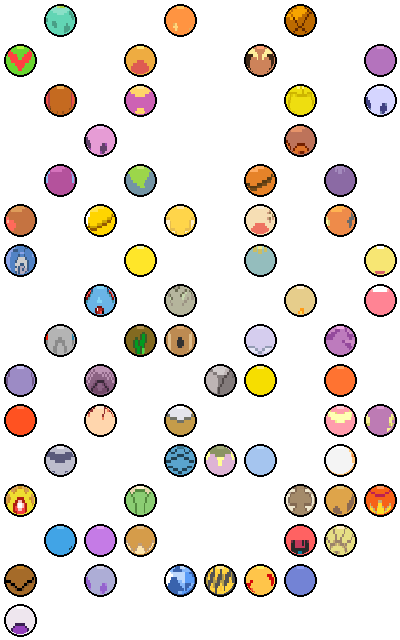
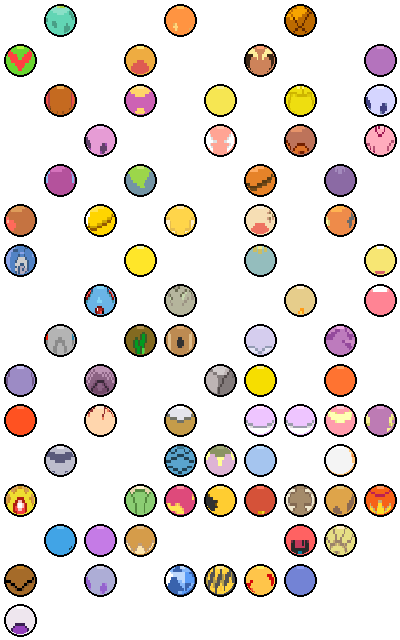
Fixup missing candy

diff --git a/static/creatures.js b/static/creatures.js
@@ -1128,9 +1128,15 @@
 
   // Inline candy tally for an opened pokémon. Pivots both species to
   // their family roots first, then dedupes — so Charizard×Charmander
-  // shows a single "Charmander candy" pip (both sides share a root)
+  // shows a single Charmander-candy pip (both sides share a root)
   // and Growlithe×Vulpix shows both. Uses readCandy so opening a
   // detail/fusion view triggers the lazy schema migration.
+  //
+  // Visual: icon-only — `<candy icon> ×N` for each root. The icon
+  // is a CSS sprite slice from the bundled candies.png sheet,
+  // sized down (24px) to fit inline alongside the surrounding
+  // detail view text. Species name lives in title/aria-label for
+  // hover tooltips and screen readers.
   function candyTallyHtml(speciesA, speciesB) {
     if (speciesA == null || speciesB == null) return '';
     const candy = readCandy();
@@ -1140,7 +1146,17 @@
     const parts = roots.map((idx) => {
       const name = speciesNameFor(idx);
       const count = candy[String(idx)] || 0;
-      return `<span class="candy-tally-pip">${escapeHtml(name)} candy <b>×${count}</b></span>`;
+      const label = `${name} candy`;
+      const col = idx % CANDY_SHEET_COLS;
+      const row = Math.floor(idx / CANDY_SHEET_COLS);
+      // Tally-icon CSS uses a 24px cell; positions scale to that.
+      const TALLY_PX = 24;
+      return `<span class="candy-tally-pip">`
+        + `<span class="candy-tally-icon" `
+        + `style="background-position: -${col * TALLY_PX}px -${row * TALLY_PX}px" `
+        + `title="${escapeHtml(label)}" aria-label="${escapeHtml(label)}"></span>`
+        + ` <b>×${count}</b>`
+        + `</span>`;
     });
     return `<div class="candy-tally">${parts.join(' · ')}</div>`;
   }
@@ -3503,6 +3519,28 @@
         color: var(--ui-text, #111);
         font-weight: 600;
       }
+      .candy-tally-pip {
+        display: inline-flex;
+        align-items: center;
+        gap: 3px;
+        vertical-align: middle;
+      }
+      /* Inline candy icon for the per-pokémon tally — smaller than
+         the candy-menu icon (24 vs 40) so it sits comfortably
+         alongside the surrounding detail-view text. The sheet is
+         scaled down to match (background-size shrinks the whole
+         image proportionally so positions in 24px cells line up). */
+      .candy-tally-icon {
+        display: inline-block;
+        width: 24px;
+        height: 24px;
+        background-image: url('${BUNDLED_BASE}/candies.png');
+        background-size: ${24 * CANDY_SHEET_COLS}px ${24 * CANDY_SHEET_ROWS}px;
+        background-repeat: no-repeat;
+        image-rendering: pixelated;
+        image-rendering: crisp-edges;
+        flex-shrink: 0;
+      }
       #battleScreen .battle-actions {
         position: absolute;
         bottom: 8%;
@@ -4899,15 +4937,16 @@
       const label = `${name} candy`;
       // Icon is a CSS sprite — background-position picks the cell
       // for this species out of the bundled candies.png sheet.
-      // title + aria-label keep the species name reachable for
-      // accessibility / hover-tooltip even though the visible UI
-      // is now icon-only per the inventory's new look.
+      // Name is shown alongside the icon so the user can scan the
+      // list quickly even for species whose candy art looks
+      // similar (or for empty-cell candies that render blank).
       return `
         <div class="candy-row">
           <div class="candy-icon"
                style="background-position: -${col * CANDY_CELL_PX}px -${row * CANDY_CELL_PX}px"
                title="${escapeHtml(label)}"
                aria-label="${escapeHtml(label)}"></div>
+          <span class="candy-name">${escapeHtml(name)}</span>
           <span class="candy-count">×${n}</span>
         </div>
       `;

diff --git a/generate_candy_images.py b/generate_candy_images.py
@@ -43,6 +43,33 @@ OUT_DIR = ROOT / "data" / "BundledData"
 EGGS_PATH = OUT_DIR / "eggs.png"
 CANDIES_PATH = OUT_DIR / "candies.png"
 
+# PIF source directory for per-species egg PNGs — used as a fallback
+# when a gen-1 species' own egg cell is empty (PIF only ships egg art
+# for base evolutions, so e.g. Pikachu has no 25.png because its base
+# is Pichu (#172) in gen 2). For those, we crop the BABY's egg art
+# instead so the candy bucket — which is keyed on the gen-1 species
+# (Pikachu, not Pichu) — still has a recognizable visual identity.
+PIF_EGGS_DIR = ROOT / "data" / "InfiniteFusion" / "Graphics" / "Battlers" / "Eggs"
+
+# Map of gen-1 species ID → baby ID whose egg PNG to use when the
+# gen-1 cell is empty. Keys mirror the candy buckets that
+# CANDY_ROOT_BABIES (in creatures.js) promotes past — Pichu's bucket
+# is Pikachu, Cleffa's is Clefairy, etc., so each maps the *bucket
+# species* to the baby whose art best represents it.
+#
+# Tyrogue branches into both Hitmonlee and Hitmonchan, so both
+# point at 236.
+BABY_EGG_FALLBACK: dict[int, int] = {
+    25:  172,   # Pikachu     ← Pichu
+    35:  173,   # Clefairy    ← Cleffa
+    39:  174,   # Jigglypuff  ← Igglybuff
+    106: 236,   # Hitmonlee   ← Tyrogue
+    107: 236,   # Hitmonchan  ← Tyrogue
+    124: 238,   # Jynx        ← Smoochum
+    125: 239,   # Electabuzz  ← Elekid
+    126: 240,   # Magmar      ← Magby
+}
+
 
 def dominant_egg_color(img: "Image.Image") -> tuple[int, int, int]:
     """Most-common opaque non-near-white color in an image. Used to
@@ -144,7 +171,23 @@ def build_candies_sheet() -> tuple[int, int]:
         ))
         bbox = egg_cell.getbbox()
         if not bbox:
-            continue
+            # PIF only ships egg art for base evolutions, so gen-1
+            # species whose base is a gen-2 baby (Pichu→Pikachu,
+            # Cleffa→Clefairy, ...) come through empty. For those we
+            # load the baby's egg PNG directly from PIF source — the
+            # candy bucket is still keyed on the gen-1 species (which
+            # is what the user sees as "Pikachu candy"), but its
+            # visual identity comes from the baby's egg art.
+            baby = BABY_EGG_FALLBACK.get(species)
+            if baby is None:
+                continue
+            baby_path = PIF_EGGS_DIR / f"{baby}.png"
+            if not baby_path.is_file():
+                continue
+            egg_cell = Image.open(baby_path).convert("RGBA")
+            bbox = egg_cell.getbbox()
+            if not bbox:
+                continue
         # Shrink the bbox inward before cropping — drops the egg's
         # dark outline pixels (1-2 px wide in PIF art) plus a wider
         # band of edge color/shading, leaving just the inner
